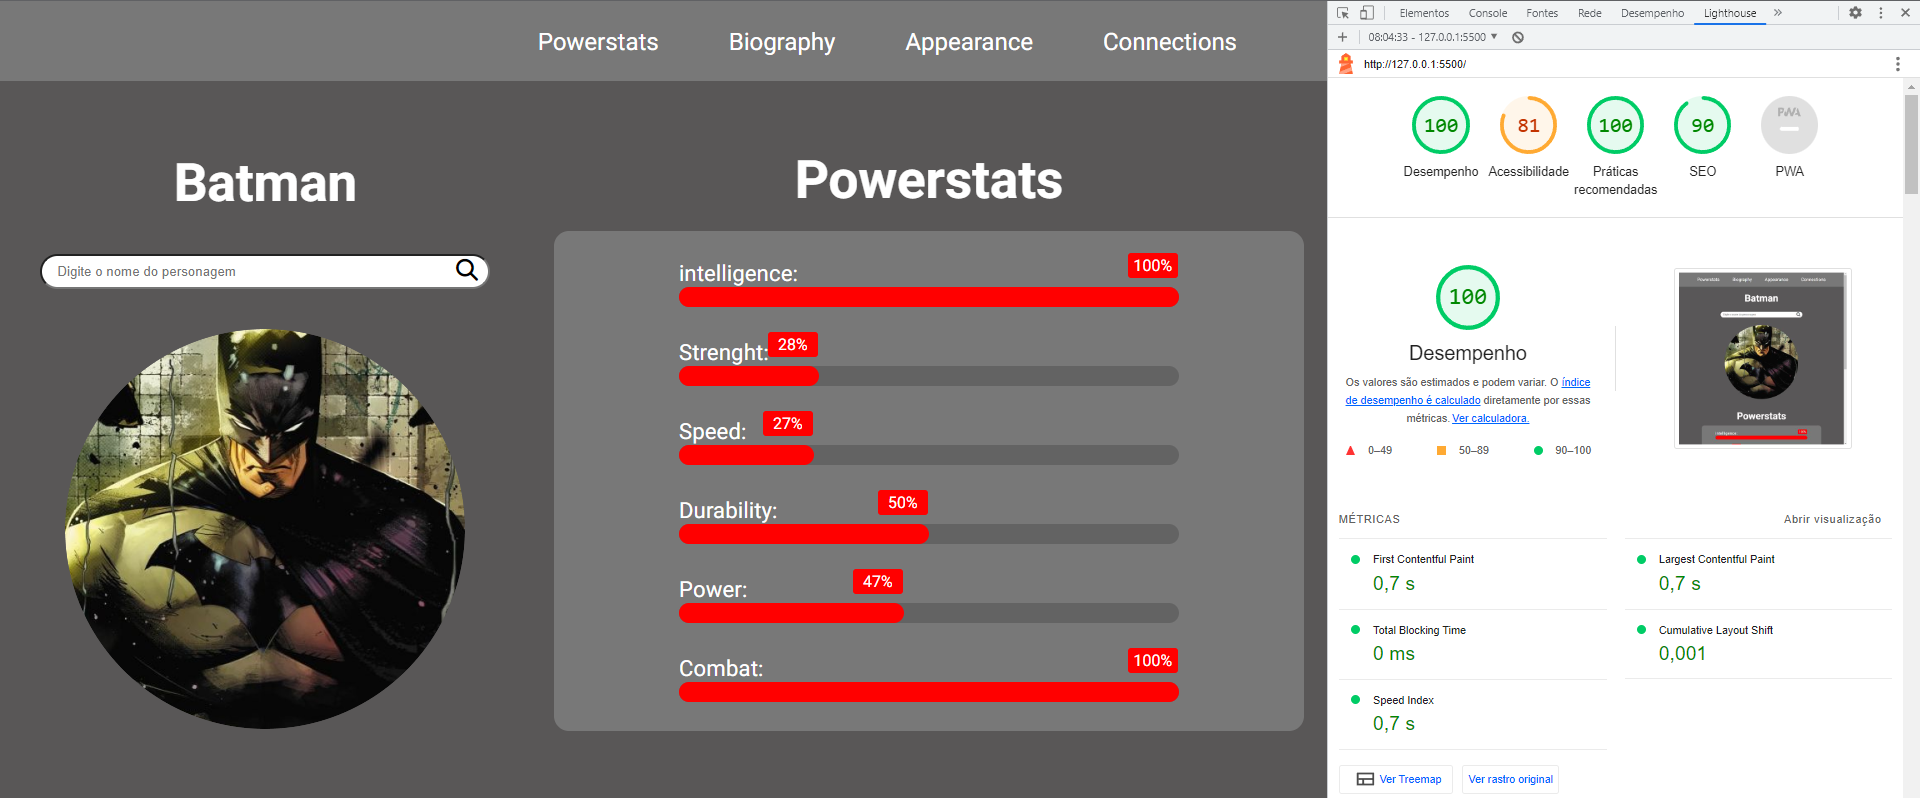
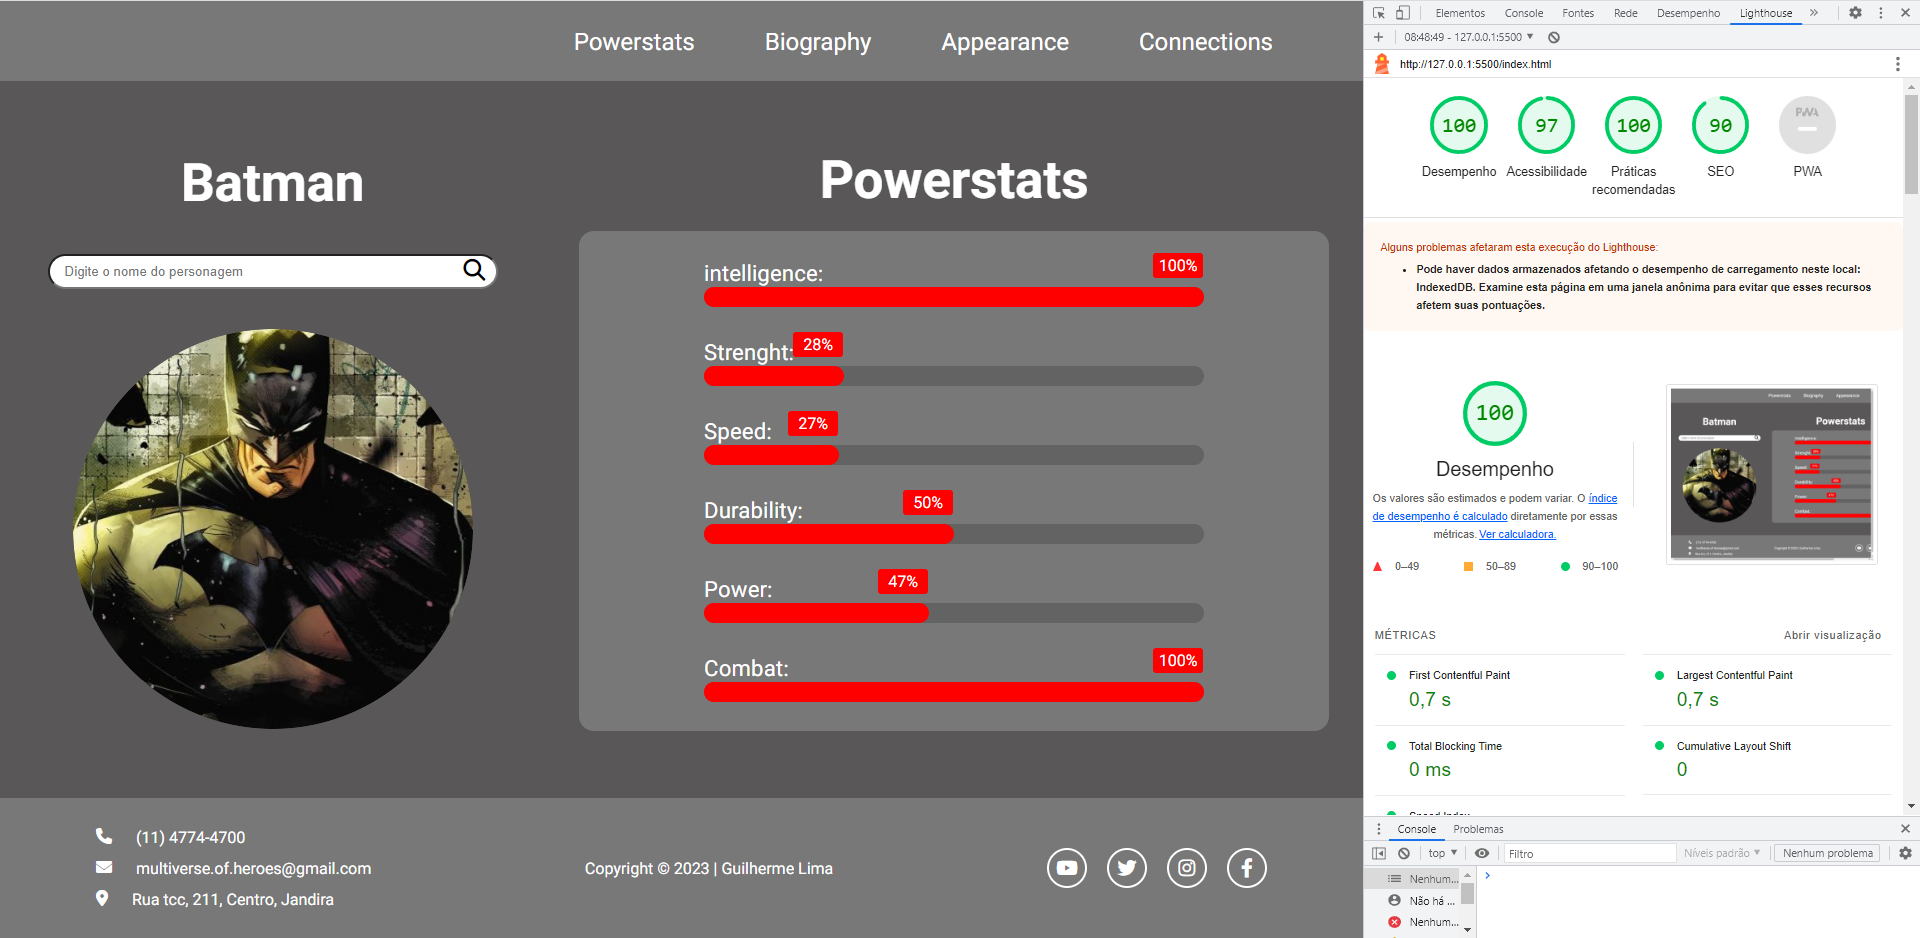
melhoria no lighthouse

diff --git a/index.html b/index.html
@@ -18,7 +18,7 @@
     <link rel="stylesheet" href="./css/tablet.css">
     <link rel="stylesheet" href="./css/mobile.css">
     <script src="./js/app.js" defer type="module"></script>
-    <script src="./js/powerstats.js" defer></script>
+    <script src="./js/index.js" defer></script>
     <link rel="icon" href="./img/icon.png">
 
     <title>Multiverso dos Heróis</title>
@@ -38,13 +38,14 @@
     <main>
 
         <div class="left">
+
             <div class="title">
                 <h2 id="nome">Batman</h2>
             </div>
 
             <form class="busca">
                 <input type="text" placeholder="Digite o nome do personagem" name="seach">
-                <button type="submit" class="button">
+                <button type="submit" class="button" name="button" aria-label="button">
                     <i class="fa-solid fa-magnifying-glass"></i>
                 </button>
 

diff --git a/js/index.js b/js/index.js
@@ -51,6 +51,8 @@ const fetchAllSuperHero = async (buscaTexto) => {
 const showSearchList = (data) => {
 
     searchList.innerHTML = ""
+    console.log(data);
+    
 
     data.forEach(dataItem => {
         const divElem = document.createElement('div')
@@ -98,13 +100,13 @@ searchList.addEventListener('click', (event) => {
 
     searchList.innerHTML = ""
 
-    console.log(searchId)
+    // console.log(searchId)
 })
 
 // Função para exibir as informações na tela.
 const showSuperheroDetails = (data) => {
 
-    console.log(data)
+    // console.log(data)
 
     document.querySelector('.personagem').innerHTML = `
         <img class = "heroi" src = "${data.image.url}">
